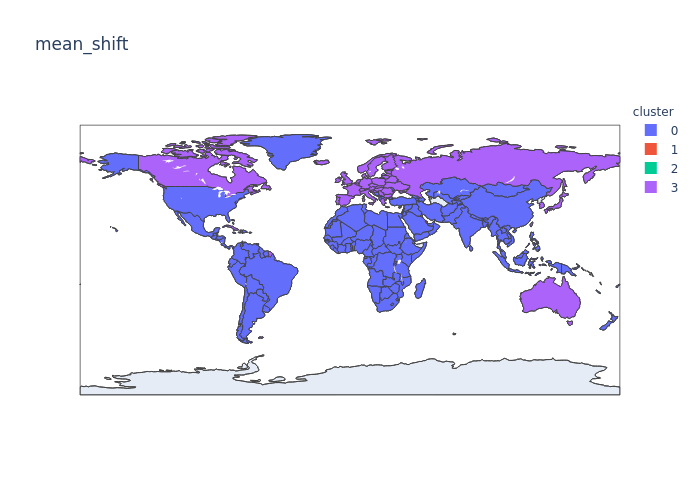
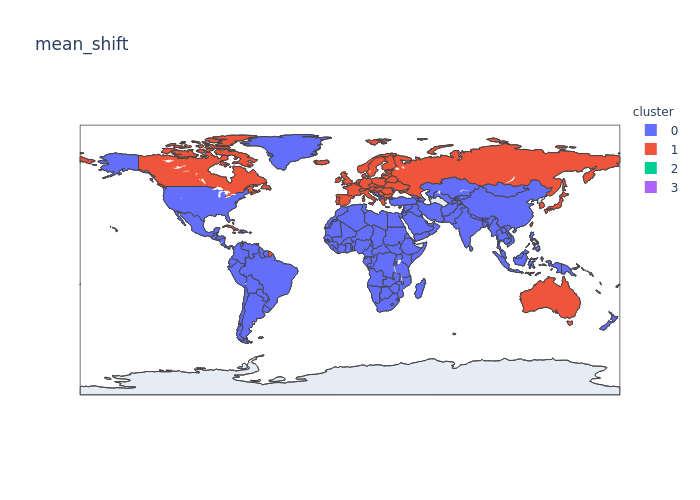
Rename map plot lables

diff --git a/src/visualization/map_plot.py b/src/visualization/map_plot.py
@@ -8,7 +8,7 @@ methods = {
     'agglomerative_clustering_weighted': pd.read_csv(
         'results/agglomerative_clustering/optimized_weighted/clusters.csv'),
     'mean_shift': pd.read_csv(
-        'results/mean_shift/optimized/clusters.csv'),
+        'results/mean_shift/optimized/clusters_renamed.csv'),
     'mean_shift_weighted': pd.read_csv(
         'results/mean_shift/optimized_weighted/clusters.csv')
 }
